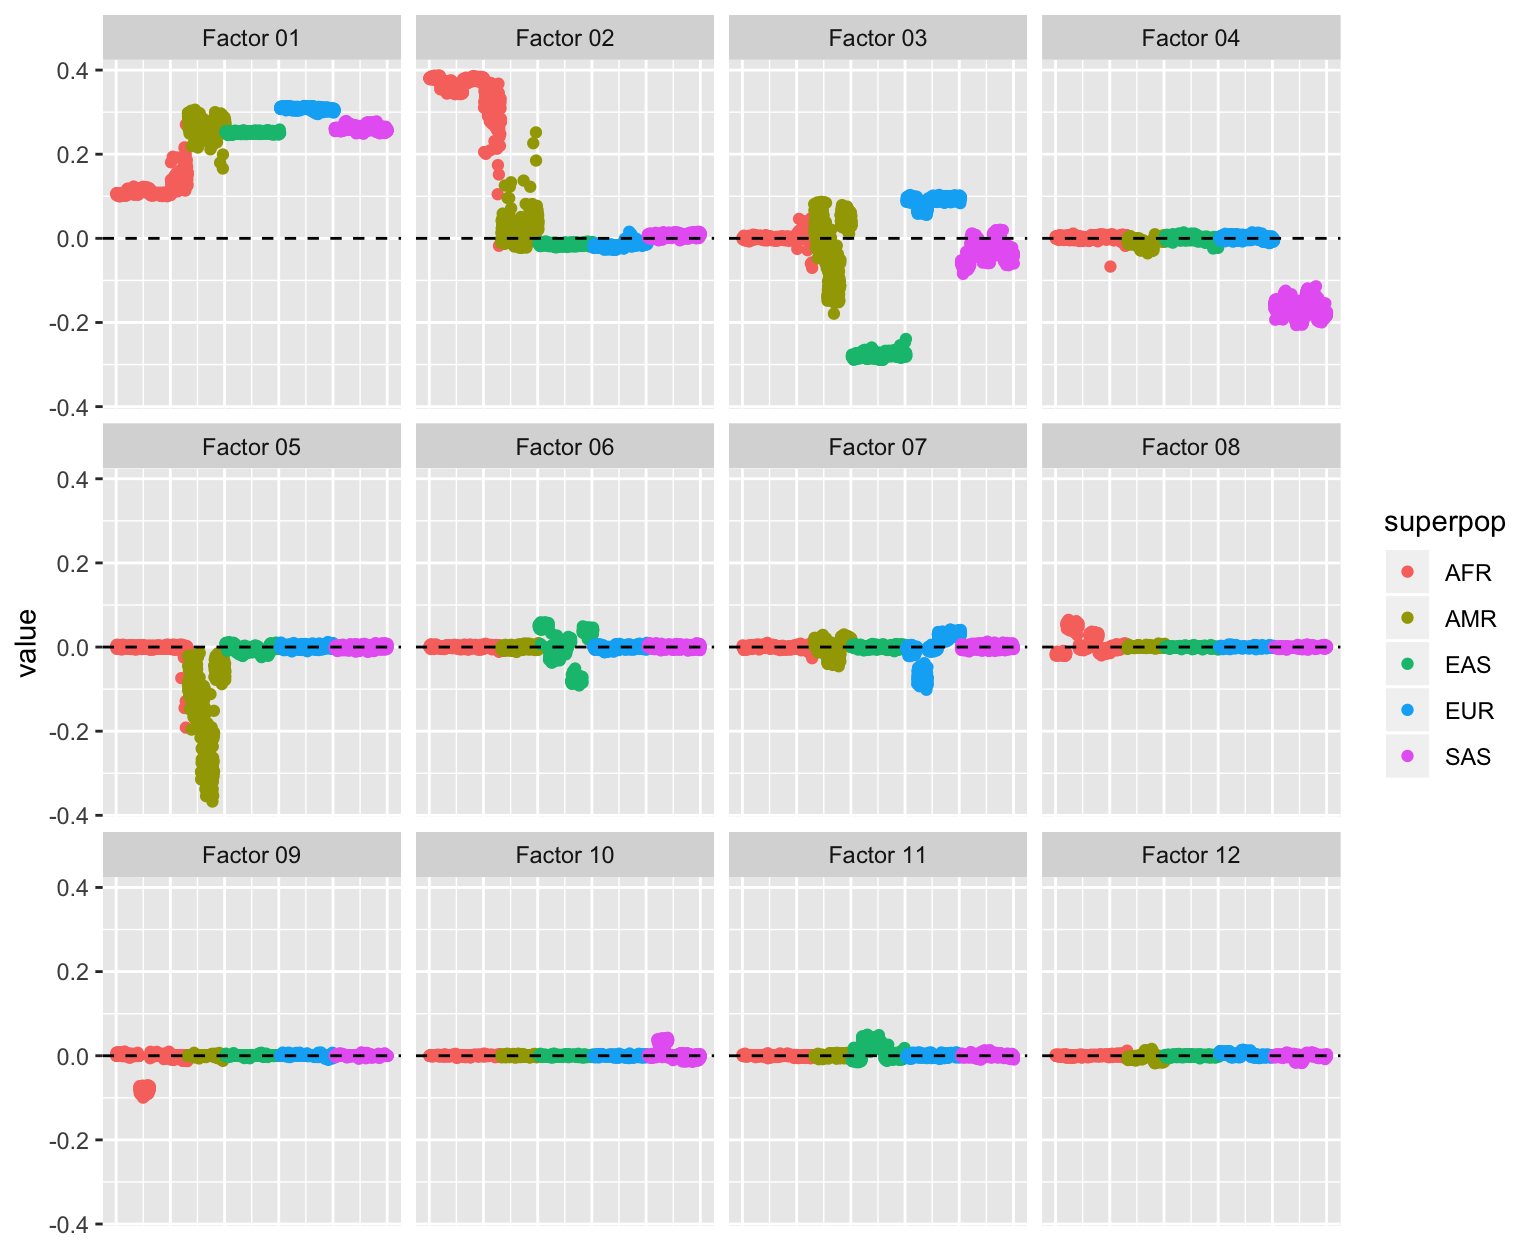
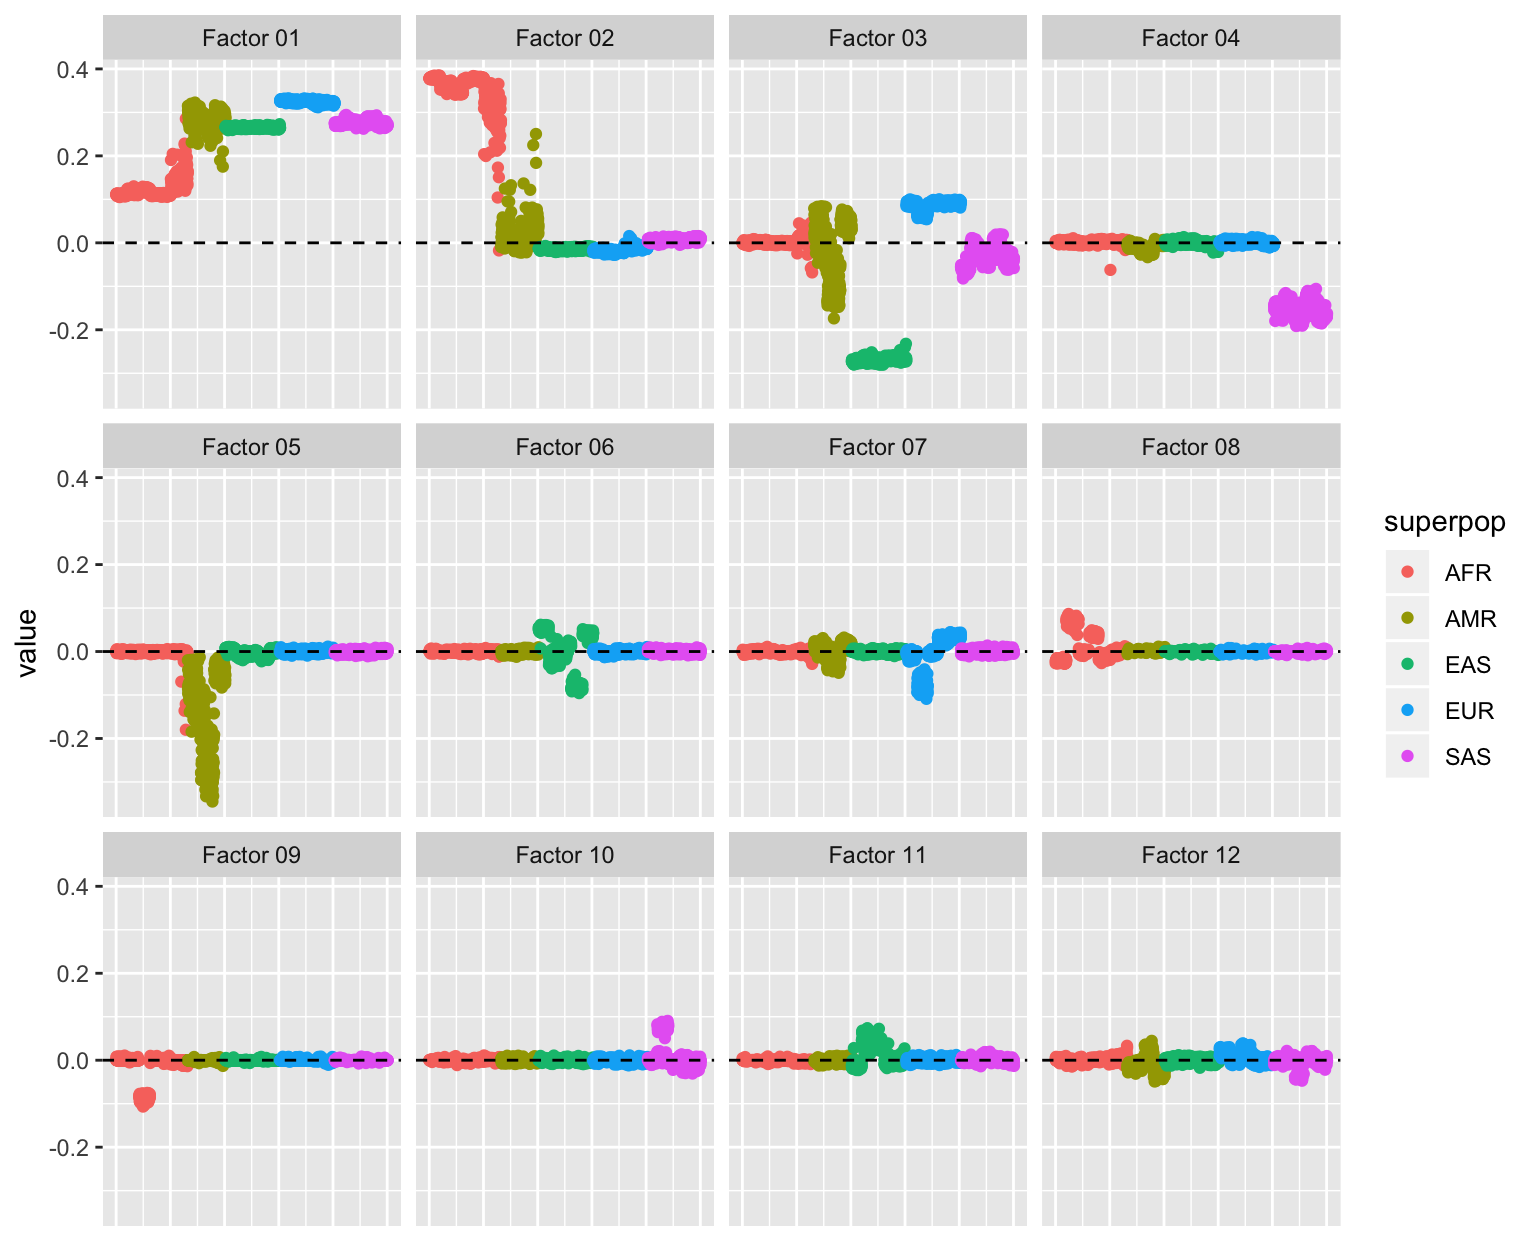
Build site.

diff --git a/docs/covmat_1kg.html b/docs/covmat_1kg.html
@@ -363,7 +363,7 @@ div.section {
 <div class="tab-content">
 <div id="summary" class="tab-pane fade in active">
 <p>
-<strong>Last updated:</strong> 2020-09-11
+<strong>Last updated:</strong> 2020-09-12
 </p>
 <p>
 <strong>Checks:</strong> <span class="glyphicon glyphicon-ok text-success" aria-hidden="true"></span> 6 <span class="glyphicon glyphicon-exclamation-sign text-danger" aria-hidden="true"></span> 0
@@ -442,10 +442,10 @@ This reproducible <a href="http://rmarkdown.rstudio.com">R Markdown</a> analysis
 <div class="panel panel-default">
 <div class="panel-heading">
 <p class="panel-title">
-<a data-toggle="collapse" data-parent="#workflowr-checks" href="#strongRepositoryversionstrongahrefhttpsgithubcomjhmarcusdriftworkflowtreef11bdf57ccc0c6d472b696f0eb9396f15a0d5a5etargetblankf11bdf5a"> <span class="glyphicon glyphicon-ok text-success" aria-hidden="true"></span> <strong>Repository version:</strong> <a href="https://github.com/jhmarcus/drift-workflow/tree/f11bdf57ccc0c6d472b696f0eb9396f15a0d5a5e" target="_blank">f11bdf5</a> </a>
+<a data-toggle="collapse" data-parent="#workflowr-checks" href="#strongRepositoryversionstrongahrefhttpsgithubcomjhmarcusdriftworkflowtreec433e173e916f42afcf13d1eb495c4b2abc273abtargetblankc433e17a"> <span class="glyphicon glyphicon-ok text-success" aria-hidden="true"></span> <strong>Repository version:</strong> <a href="https://github.com/jhmarcus/drift-workflow/tree/c433e173e916f42afcf13d1eb495c4b2abc273ab" target="_blank">c433e17</a> </a>
 </p>
 </div>
[2 lines of base64/hex data omitted]
 <div class="panel-body">
 <p>
 Great! You are using Git for version control. Tracking code development and connecting the code version to the results is critical for reproducibility. The version displayed above was the version of the Git repository at the time these results were generated. <br><br> Note that you need to be careful to ensure that all relevant files for the analysis have been committed to Git prior to generating the results (you can use <code>wflow_publish</code> or <code>wflow_git_commit</code>). workflowr only checks the R Markdown file, but you know if there are other scripts or data files that it depends on. Below is the status of the Git repository when the results were generated:
@@ -512,6 +512,40 @@ Message
 Rmd
 </td>
 <td>
+<a href="https://github.com/jhmarcus/drift-workflow/blob/c433e173e916f42afcf13d1eb495c4b2abc273ab/analysis/covmat_1kg.Rmd" target="_blank">c433e17</a>
+</td>
+<td>
+Jason Willwerscheid
+</td>
+<td>
+2020-09-12
+</td>
+<td>
+wflow_publish(“analysis/covmat_1kg.Rmd”)
+</td>
+</tr>
+<tr>
+<td>
+html
+</td>
+<td>
+<a href="https://rawcdn.githack.com/jhmarcus/drift-workflow/ca2258e4ae136f1dec2c78663fe9912e1bae56e9/docs/covmat_1kg.html" target="_blank">ca2258e</a>
+</td>
+<td>
+Jason Willwerscheid
+</td>
+<td>
+2020-09-11
+</td>
+<td>
+Build site.
+</td>
+</tr>
+<tr>
+<td>
+Rmd
+</td>
+<td>
 <a href="https://github.com/jhmarcus/drift-workflow/blob/f11bdf57ccc0c6d472b696f0eb9396f15a0d5a5e/analysis/covmat_1kg.Rmd" target="_blank">f11bdf5</a>
 </td>
 <td>
@@ -540,9 +574,9 @@ wflow_publish(“analysis/covmat_1kg.Rmd”)
 <pre class="r"><code>covmat &lt;- readRDS(&quot;../data/datasets/1kg_phase3_derived/1kg_phase3_derived_covmat.rds&quot;)
 meta &lt;- readRDS(&quot;../data/datasets/1kg_phase3_derived/1kg_phase3_derived_meta.rds&quot;)
 
-plot_fl &lt;- function(fl) {
-  df &lt;- data.frame(fl$flash.fit$EF[[1]])
-  colnames(df) &lt;- paste0(&quot;Factor &quot;, formatC(1:fl$n.factors, width = 2, flag = &quot;0&quot;))
+plot_fl &lt;- function(LL) {
+  df &lt;- data.frame(LL)
+  colnames(df) &lt;- paste0(&quot;Factor &quot;, formatC(1:ncol(LL), width = 2, flag = &quot;0&quot;))
   df$subpop &lt;- meta$pop
   df$superpop &lt;- meta$super_pop
   df &lt;- df %&gt;% arrange(superpop)
@@ -571,15 +605,89 @@ plot_fl &lt;- function(fl) {
   flash.add.greedy(Kmax = 20, 
                    prior.family = prior.point.laplace())
 
-plot(plot_fl(fl_g))</code></pre>
+plot(plot_fl(fl_g$loadings.pm[[1]] %*% diag(sqrt(fl_g$loadings.scale))))</code></pre>
 <p><img src="figure/covmat_1kg.Rmd/pl_g-1.png" width="768" style="display: block; margin: auto;" /></p>
+<p>
+<button type="button" class="btn btn-default btn-xs btn-workflowr btn-workflowr-fig" data-toggle="collapse" data-target="#fig-pl_g-1">
+Past versions of pl_g-1.png
+</button>
+</p>
+<div id="fig-pl_g-1" class="collapse">
+<div class="table-responsive">
+<table class="table table-condensed table-hover">
+<thead>
+<tr>
+<th>
+Version
+</th>
+<th>
+Author
+</th>
+<th>
+Date
+</th>
+</tr>
+</thead>
+<tbody>
+<tr>
+<td>
+<a href="https://github.com/jhmarcus/drift-workflow/blob/ca2258e4ae136f1dec2c78663fe9912e1bae56e9/docs/figure/covmat_1kg.Rmd/pl_g-1.png" target="_blank">ca2258e</a>
+</td>
+<td>
+Jason Willwerscheid
+</td>
+<td>
+2020-09-11
+</td>
+</tr>
+</tbody>
+</table>
+</div>
+</div>
 </div>
 <div id="backfit" class="section level2">
 <h2>Backfit</h2>
 <pre class="r"><code>fl_bf &lt;- fl_g %&gt;% flash.backfit()
 
-plot(plot_fl(fl_bf))</code></pre>
+plot(plot_fl(fl_bf$loadings.pm[[1]] %*% diag(sqrt(fl_bf$loadings.scale))))</code></pre>
 <p><img src="figure/covmat_1kg.Rmd/pl_bf-1.png" width="768" style="display: block; margin: auto;" /></p>
+<p>
+<button type="button" class="btn btn-default btn-xs btn-workflowr btn-workflowr-fig" data-toggle="collapse" data-target="#fig-pl_bf-1">
+Past versions of pl_bf-1.png
+</button>
+</p>
+<div id="fig-pl_bf-1" class="collapse">
+<div class="table-responsive">
+<table class="table table-condensed table-hover">
+<thead>
+<tr>
+<th>
+Version
+</th>
+<th>
+Author
+</th>
+<th>
+Date
+</th>
+</tr>
+</thead>
+<tbody>
+<tr>
+<td>
+<a href="https://github.com/jhmarcus/drift-workflow/blob/ca2258e4ae136f1dec2c78663fe9912e1bae56e9/docs/figure/covmat_1kg.Rmd/pl_bf-1.png" target="_blank">ca2258e</a>
+</td>
+<td>
+Jason Willwerscheid
+</td>
+<td>
+2020-09-11
+</td>
+</tr>
+</tbody>
+</table>
+</div>
+</div>
 </div>
 <div id="additional-diagonal-variance" class="section level2">
 <h2>Additional diagonal variance</h2>
@@ -617,9 +725,65 @@ while (elbo_diff &gt; 0.1) {
 #&gt; SD (diagonal): 2.86e-01  SD (non-diag): 1.47e-03  ELBO: 31798035 
 #&gt; SD (diagonal): 2.86e-01  SD (non-diag): 1.47e-03  ELBO: 31798036</code></pre>
 <pre class="r"><code>
-plot(plot_fl(fl))</code></pre>
+plot(plot_fl(fl$loadings.pm[[1]] %*% diag(sqrt(fl$loadings.scale))))</code></pre>
 <p><img src="figure/covmat_1kg.Rmd/diag-1.png" width="768" style="display: block; margin: auto;" /></p>
-<br> <br>
+<p>
+<button type="button" class="btn btn-default btn-xs btn-workflowr btn-workflowr-fig" data-toggle="collapse" data-target="#fig-diag-1">
+Past versions of diag-1.png
+</button>
+</p>
+<div id="fig-diag-1" class="collapse">
+<div class="table-responsive">
+<table class="table table-condensed table-hover">
+<thead>
+<tr>
+<th>
+Version
+</th>
+<th>
+Author
+</th>
+<th>
+Date
+</th>
+</tr>
+</thead>
+<tbody>
+<tr>
+<td>
+<a href="https://github.com/jhmarcus/drift-workflow/blob/ca2258e4ae136f1dec2c78663fe9912e1bae56e9/docs/figure/covmat_1kg.Rmd/diag-1.png" target="_blank">ca2258e</a>
+</td>
+<td>
+Jason Willwerscheid
+</td>
+<td>
+2020-09-11
+</td>
+</tr>
+</tbody>
+</table>
+</div>
+</div>
+</div>
+<div id="drift" class="section level2">
+<h2>Drift</h2>
+<pre class="r"><code>LL &lt;- fl$loadings.pm[[1]] %*% diag(sqrt(fl$loadings.scale))
+LL &lt;- cbind(abs(LL[, 1]), pmax(LL[, -1], 0), pmax(-LL[, -1], 0))
+LL &lt;- LL[, c(1, 2 * (1:11), 2 * (1:11) + 1)]
+# LL &lt;- LL[, -c(3, 7, 12, 14, 16, 18, 21, 22)] # by inspection
+
+LL_scale &lt;- apply(LL, 2, max)
+LL &lt;- t(t(LL) / LL_scale)
+
+which_k &lt;- (LL_scale &gt; .01)
+LL &lt;- LL[, which_k]
+LL_scale &lt;- LL_scale[which_k]
+
+dr &lt;- init_from_covmat(covmat, LL, p = 10000, prior.s2 = LL_scale^2)
+dr &lt;- drift(dr, maxiter = 200, verbose = FALSE)
+
+plot(plot_fl(dr$EL %*% diag(sqrt(dr$prior_s2))))</code></pre>
+<img src="figure/covmat_1kg.Rmd/dr-1.png" width="768" style="display: block; margin: auto;" /> <br> <br>
 <p>
 <button type="button" class="btn btn-default btn-workflowr btn-workflowr-sessioninfo" data-toggle="collapse" data-target="#workflowr-sessioninfo" style="display: block;">
 <span class="glyphicon glyphicon-wrench" aria-hidden="true"></span> Session information
@@ -645,7 +809,7 @@ plot(plot_fl(fl))</code></pre>
 #&gt;  [1] forcats_0.4.0      stringr_1.4.0      dplyr_0.8.0.1     
 #&gt;  [4] purrr_0.3.2        readr_1.3.1        tidyr_0.8.3       
 #&gt;  [7] tibble_2.1.1       ggplot2_3.2.0      tidyverse_1.2.1   
-#&gt; [10] drift.alpha_0.0.10 flashier_0.2.7    
+#&gt; [10] drift.alpha_0.0.11 flashier_0.2.7    
 #&gt; 
 #&gt; loaded via a namespace (and not attached):
 #&gt;  [1] Rcpp_1.0.4.6      lubridate_1.7.4   invgamma_1.1     
